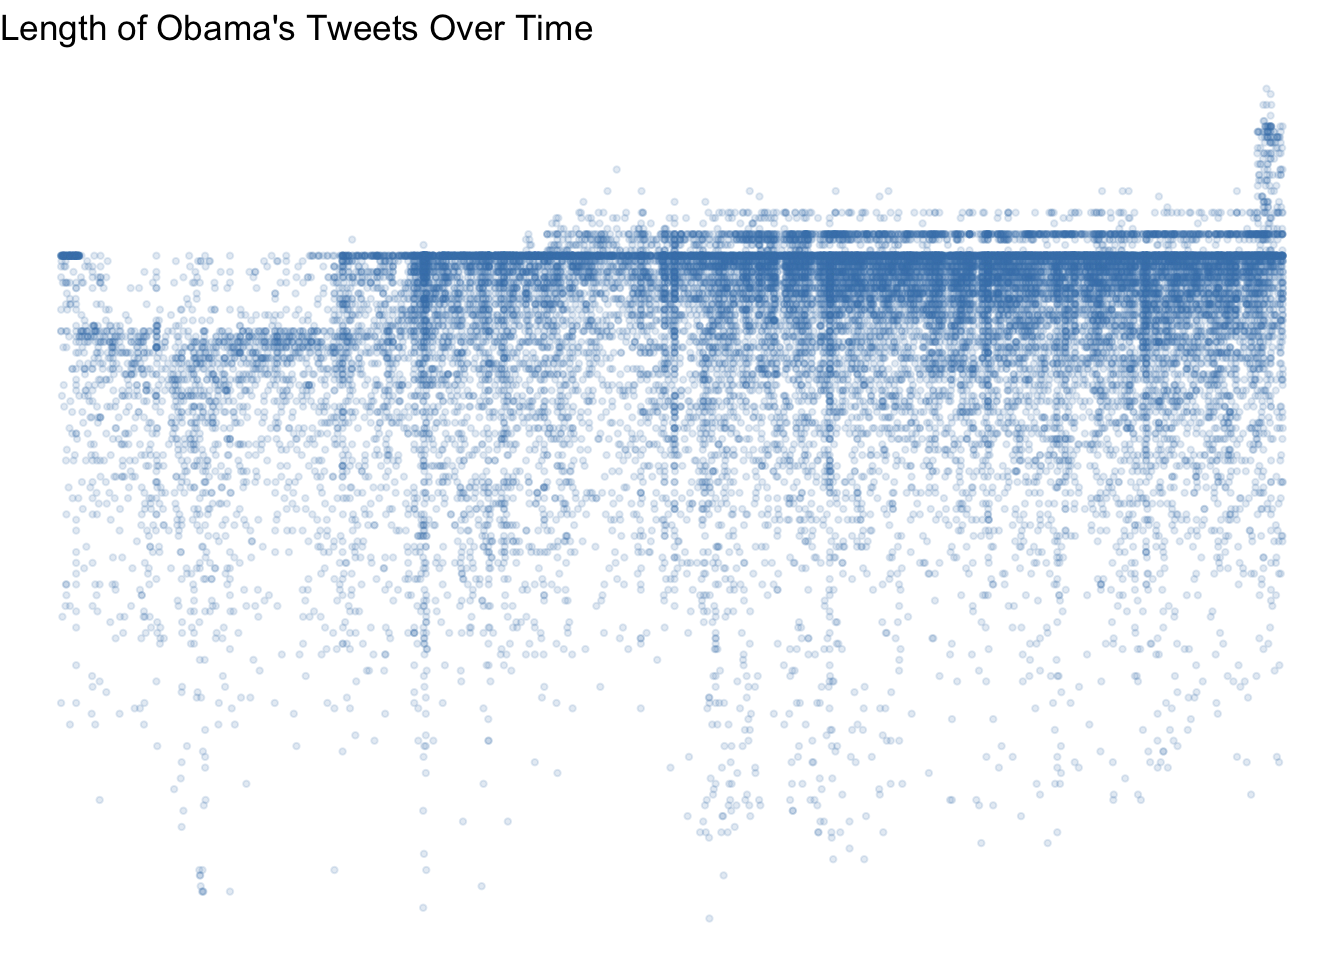
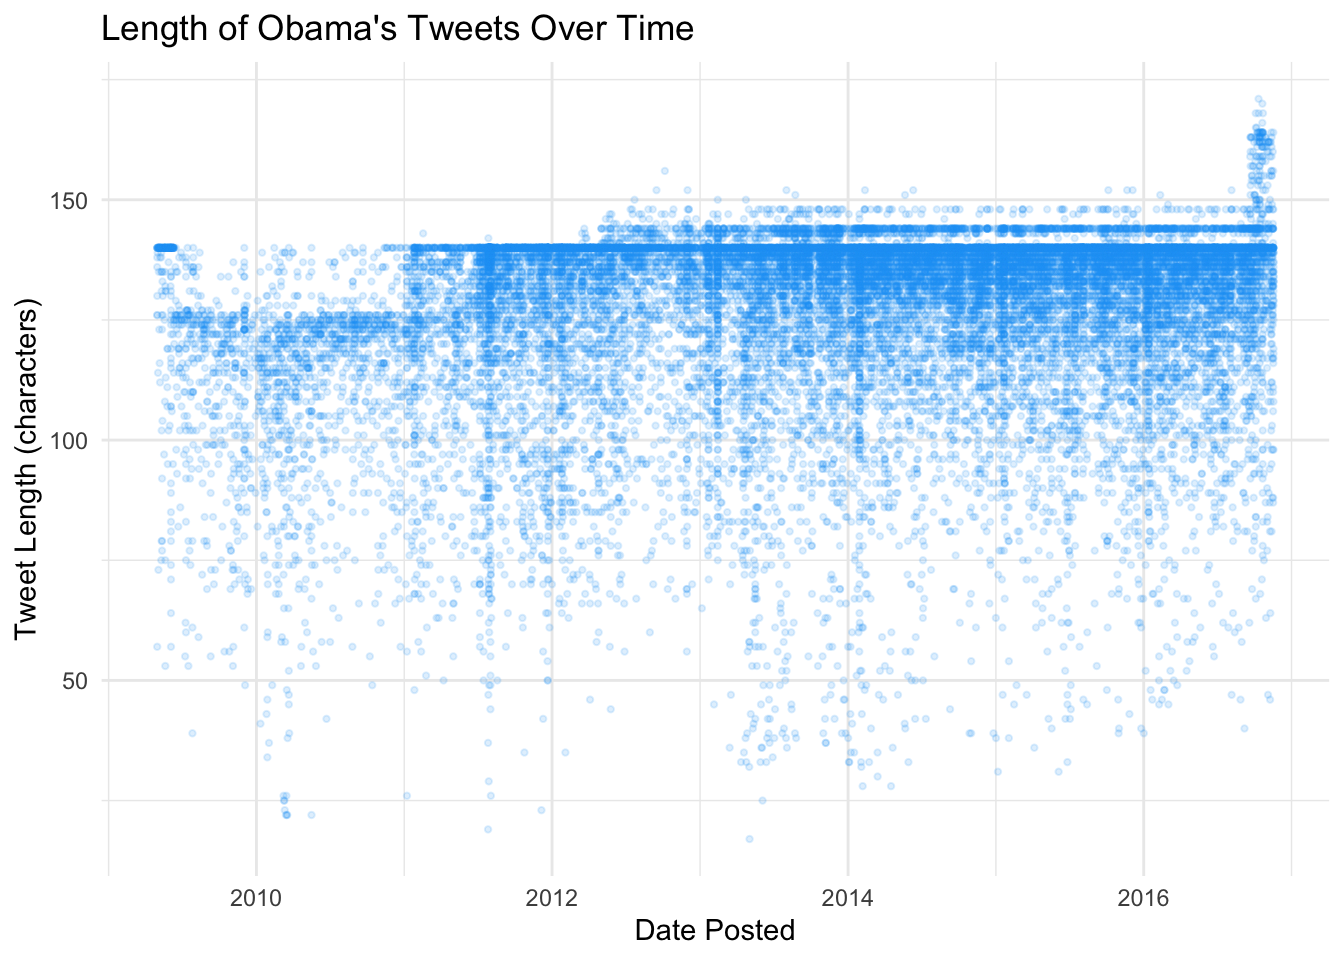
re-render

diff --git a/docs/obama.html b/docs/obama.html
@@ -284,10 +284,10 @@ $ expanded_urls              &lt;chr&gt; "http://snpy.tv/2f3WnrO", "http://snpy.
 <summary>Code</summary>
 <div class="code-copy-outer-scaffold"><div class="sourceCode cell-code" id="cb6"><pre class="sourceCode r code-with-copy"><code class="sourceCode r"><span id="cb6-1"><a href="#cb6-1" aria-hidden="true" tabindex="-1"></a>tweets1 <span class="sc">|&gt;</span> </span>
 <span id="cb6-2"><a href="#cb6-2" aria-hidden="true" tabindex="-1"></a>    <span class="fu">ggplot</span>(<span class="fu">aes</span>(<span class="at">x=</span>timestamp, <span class="at">y=</span>length)) <span class="sc">+</span> </span>
-<span id="cb6-3"><a href="#cb6-3" aria-hidden="true" tabindex="-1"></a>    <span class="fu">geom_point</span>(<span class="at">alpha =</span> <span class="fl">0.15</span>,<span class="at">size=</span><span class="fl">0.8</span>, <span class="at">color =</span> <span class="st">"steelblue"</span>) <span class="sc">+</span></span>
+<span id="cb6-3"><a href="#cb6-3" aria-hidden="true" tabindex="-1"></a>    <span class="fu">geom_point</span>(<span class="at">alpha =</span> <span class="fl">0.15</span>,<span class="at">size=</span><span class="fl">0.8</span>, <span class="at">color =</span> <span class="st">"#1DA1F2"</span>) <span class="sc">+</span></span>
 <span id="cb6-4"><a href="#cb6-4" aria-hidden="true" tabindex="-1"></a>    <span class="fu">labs</span>(<span class="at">title =</span> <span class="st">"Length of Obama's Tweets Over Time"</span>, </span>
 <span id="cb6-5"><a href="#cb6-5" aria-hidden="true" tabindex="-1"></a>            <span class="at">x =</span> <span class="st">"Date Posted"</span>, <span class="at">y =</span> <span class="st">"Tweet Length (characters)"</span>) <span class="sc">+</span></span>
-<span id="cb6-6"><a href="#cb6-6" aria-hidden="true" tabindex="-1"></a>    <span class="fu">theme_void</span>()</span></code></pre></div><button title="Copy to Clipboard" class="code-copy-button"><i class="bi"></i></button></div>
+<span id="cb6-6"><a href="#cb6-6" aria-hidden="true" tabindex="-1"></a>    <span class="fu">theme_minimal</span>()</span></code></pre></div><button title="Copy to Clipboard" class="code-copy-button"><i class="bi"></i></button></div>
 </details>
 <div class="cell-output-display">
 <div>
@@ -300,28 +300,21 @@ $ expanded_urls              &lt;chr&gt; "http://snpy.tv/2f3WnrO", "http://snpy.
 </section>
 <section id="most-common-hashtags" class="level4">
 <h4 class="anchored" data-anchor-id="most-common-hashtags">Most common Hashtags</h4>
-<p>look around fct_reorder plot</p>
-</section>
-<section id="most-mentioned" class="level4">
-<h4 class="anchored" data-anchor-id="most-mentioned">Most Mentioned</h4>
-<p>str_extract</p>
-</section>
-<section id="topics" class="level4">
-<h4 class="anchored" data-anchor-id="topics">Topics</h4>
-<p>str_extract fct_lump</p>
-</section>
-<section id="tweets-per-month-per-year" class="level4">
-<h4 class="anchored" data-anchor-id="tweets-per-month-per-year">tweets per month/ per year</h4>
 <div class="cell">
 <details class="code-fold">
 <summary>Code</summary>
 <div class="code-copy-outer-scaffold"><div class="sourceCode cell-code" id="cb7"><pre class="sourceCode r code-with-copy"><code class="sourceCode r"><span id="cb7-1"><a href="#cb7-1" aria-hidden="true" tabindex="-1"></a>tweets2 <span class="sc">|&gt;</span> </span>
-<span id="cb7-2"><a href="#cb7-2" aria-hidden="true" tabindex="-1"></a>    <span class="fu">mutate</span>(<span class="at">month =</span> <span class="fu">month</span>(timestamp)) <span class="sc">|&gt;</span> </span>
-<span id="cb7-3"><a href="#cb7-3" aria-hidden="true" tabindex="-1"></a>    <span class="fu">group_by</span>(month) <span class="sc">|&gt;</span> </span>
-<span id="cb7-4"><a href="#cb7-4" aria-hidden="true" tabindex="-1"></a>    <span class="fu">summarize</span>(<span class="at">n=</span><span class="fu">n</span>()) <span class="sc">|&gt;</span> </span>
-<span id="cb7-5"><a href="#cb7-5" aria-hidden="true" tabindex="-1"></a>    <span class="fu">ggplot</span>(<span class="fu">aes</span>(<span class="at">x=</span>month,<span class="at">y=</span>n)) <span class="sc">+</span></span>
-<span id="cb7-6"><a href="#cb7-6" aria-hidden="true" tabindex="-1"></a>        <span class="fu">geom_col</span>() <span class="sc">+</span> </span>
-<span id="cb7-7"><a href="#cb7-7" aria-hidden="true" tabindex="-1"></a>        <span class="fu">labs</span>(<span class="at">title =</span> <span class="st">"Obama's Tweets by Month"</span>, <span class="at">x =</span> <span class="st">"Month"</span>, <span class="at">y =</span> <span class="st">"Number of Tweets"</span>) </span></code></pre></div><button title="Copy to Clipboard" class="code-copy-button"><i class="bi"></i></button></div>
+<span id="cb7-2"><a href="#cb7-2" aria-hidden="true" tabindex="-1"></a>    <span class="fu">filter</span>(<span class="fu">is.na</span>(retweeted_status_id), <span class="sc">!</span><span class="fu">str_detect</span>(text, <span class="st">"^RT @"</span>)) <span class="sc">|&gt;</span> </span>
+<span id="cb7-3"><a href="#cb7-3" aria-hidden="true" tabindex="-1"></a>    <span class="fu">mutate</span>(<span class="at">hashtag =</span> <span class="fu">str_extract_all</span>(text_lower, <span class="st">"#</span><span class="sc">\\</span><span class="st">w+"</span>)) <span class="sc">|&gt;</span> </span>
+<span id="cb7-4"><a href="#cb7-4" aria-hidden="true" tabindex="-1"></a>    <span class="fu">unnest</span>(hashtag) <span class="sc">|&gt;</span> </span>
+<span id="cb7-5"><a href="#cb7-5" aria-hidden="true" tabindex="-1"></a>    <span class="fu">filter</span>(<span class="sc">!</span><span class="fu">is.na</span>(hashtag)) <span class="sc">|&gt;</span> </span>
+<span id="cb7-6"><a href="#cb7-6" aria-hidden="true" tabindex="-1"></a>    <span class="fu">group_by</span>(hashtag) <span class="sc">|&gt;</span> </span>
+<span id="cb7-7"><a href="#cb7-7" aria-hidden="true" tabindex="-1"></a>    <span class="fu">summarize</span>(<span class="at">n=</span><span class="fu">n</span>()) <span class="sc">|&gt;</span> </span>
+<span id="cb7-8"><a href="#cb7-8" aria-hidden="true" tabindex="-1"></a>    <span class="fu">arrange</span>(<span class="fu">desc</span>(n)) <span class="sc">|&gt;</span> </span>
+<span id="cb7-9"><a href="#cb7-9" aria-hidden="true" tabindex="-1"></a>    <span class="fu">slice_head</span>(<span class="at">n=</span><span class="dv">10</span>) <span class="sc">|&gt;</span> </span>
+<span id="cb7-10"><a href="#cb7-10" aria-hidden="true" tabindex="-1"></a>    <span class="fu">ggplot</span>(<span class="fu">aes</span>(<span class="at">x=</span>n, <span class="at">y =</span> <span class="fu">fct_reorder</span>(hashtag,n))) <span class="sc">+</span></span>
+<span id="cb7-11"><a href="#cb7-11" aria-hidden="true" tabindex="-1"></a>        <span class="fu">geom_col</span>(<span class="at">fill =</span> <span class="st">"#1DA1F2"</span>) <span class="sc">+</span></span>
+<span id="cb7-12"><a href="#cb7-12" aria-hidden="true" tabindex="-1"></a>        <span class="fu">labs</span>(<span class="at">title =</span> <span class="st">"Top 10 Most Used Hashtags"</span>, <span class="at">x =</span> <span class="cn">NULL</span>, <span class="at">y =</span> <span class="st">"Hashtag"</span>)</span></code></pre></div><button title="Copy to Clipboard" class="code-copy-button"><i class="bi"></i></button></div>
 </details>
 <div class="cell-output-display">
 <div>
@@ -331,7 +324,162 @@ $ expanded_urls              &lt;chr&gt; "http://snpy.tv/2f3WnrO", "http://snpy.
 </div>
 </div>
 </div>
-<p>mutate(year = year(timestamp)) geom_line</p>
+<p>This chart shows the 10 most highly used hashtags by former President Obama in his own Tweets. From this data, we can see that some of the issues he cared about includes climate action, healthcare, and equal opportunity.</p>
+<div class="cell">
+<details class="code-fold">
+<summary>Code</summary>
+<div class="code-copy-outer-scaffold"><div class="sourceCode cell-code" id="cb8"><pre class="sourceCode r code-with-copy"><code class="sourceCode r"><span id="cb8-1"><a href="#cb8-1" aria-hidden="true" tabindex="-1"></a>tweets2 <span class="sc">|&gt;</span> </span>
+<span id="cb8-2"><a href="#cb8-2" aria-hidden="true" tabindex="-1"></a>    <span class="fu">filter</span>(<span class="fu">str_detect</span>(text_lower,<span class="st">"#actonclimate</span><span class="sc">\\</span><span class="st">b"</span>)) <span class="sc">|&gt;</span> </span>
+<span id="cb8-3"><a href="#cb8-3" aria-hidden="true" tabindex="-1"></a>    <span class="fu">mutate</span>(<span class="at">month =</span> <span class="fu">floor_date</span>(timestamp, <span class="st">"month"</span>)) <span class="sc">|&gt;</span> </span>
+<span id="cb8-4"><a href="#cb8-4" aria-hidden="true" tabindex="-1"></a>    <span class="fu">group_by</span>(month) <span class="sc">|&gt;</span> </span>
+<span id="cb8-5"><a href="#cb8-5" aria-hidden="true" tabindex="-1"></a>    <span class="fu">summarize</span>(<span class="at">n=</span><span class="fu">n</span>()) <span class="sc">|&gt;</span> </span>
+<span id="cb8-6"><a href="#cb8-6" aria-hidden="true" tabindex="-1"></a>    <span class="fu">ggplot</span>(<span class="fu">aes</span>(<span class="at">x=</span>month, <span class="at">y =</span> n)) <span class="sc">+</span></span>
+<span id="cb8-7"><a href="#cb8-7" aria-hidden="true" tabindex="-1"></a>        <span class="fu">geom_line</span>(<span class="at">color =</span> <span class="st">"#1DA1F2"</span>) <span class="sc">+</span></span>
+<span id="cb8-8"><a href="#cb8-8" aria-hidden="true" tabindex="-1"></a>        <span class="fu">labs</span>(<span class="at">title =</span> <span class="st">"Uses of #ActOnClimate Overtime"</span>, <span class="at">x =</span> <span class="st">"Year"</span>, <span class="at">y =</span> <span class="st">"Number of Uses"</span>)</span></code></pre></div><button title="Copy to Clipboard" class="code-copy-button"><i class="bi"></i></button></div>
+</details>
+<div class="cell-output-display">
+<div>
+<figure class="figure">
+<p><img src="obama_files/figure-html/unnamed-chunk-7-1.png" class="img-fluid figure-img" width="672"></p>
+</figure>
+</div>
+</div>
+</div>
+<p>This graph plots the usage of #ActOnClimate overtime in both Obama’s own tweets and his retweets. The hashtag was introduced in the middle of 2013, peaking in usage towards the middle of 2014. It was used constantly in 2015 and dropped in usage towards the end of his second term.</p>
+</section>
+<section id="most-mentioned" class="level4">
+<h4 class="anchored" data-anchor-id="most-mentioned">Most Mentioned</h4>
+<p>str_extract</p>
+</section>
+<section id="topics" class="level4">
+<h4 class="anchored" data-anchor-id="topics">Topics</h4>
+<p>str_detect(“health”) str_detect(“econom”) str_detect(“health”) fct_lump</p>
+</section>
+<section id="tweets-per-month-per-year" class="level4">
+<h4 class="anchored" data-anchor-id="tweets-per-month-per-year">tweets per month/ per year</h4>
+<div class="cell">
+<details class="code-fold">
+<summary>Code</summary>
+<div class="code-copy-outer-scaffold"><div class="sourceCode cell-code" id="cb9"><pre class="sourceCode r code-with-copy"><code class="sourceCode r"><span id="cb9-1"><a href="#cb9-1" aria-hidden="true" tabindex="-1"></a>tweets2 <span class="sc">|&gt;</span> </span>
+<span id="cb9-2"><a href="#cb9-2" aria-hidden="true" tabindex="-1"></a>    <span class="fu">mutate</span>(<span class="at">month =</span> <span class="fu">month</span>(timestamp, <span class="at">label =</span><span class="cn">TRUE</span>)) <span class="sc">|&gt;</span> </span>
+<span id="cb9-3"><a href="#cb9-3" aria-hidden="true" tabindex="-1"></a>    <span class="fu">group_by</span>(month) <span class="sc">|&gt;</span> </span>
+<span id="cb9-4"><a href="#cb9-4" aria-hidden="true" tabindex="-1"></a>    <span class="fu">summarize</span>(<span class="at">n=</span><span class="fu">n</span>()) <span class="sc">|&gt;</span> </span>
+<span id="cb9-5"><a href="#cb9-5" aria-hidden="true" tabindex="-1"></a>    <span class="fu">ggplot</span>(<span class="fu">aes</span>(<span class="at">x=</span>month,<span class="at">y=</span>n)) <span class="sc">+</span></span>
+<span id="cb9-6"><a href="#cb9-6" aria-hidden="true" tabindex="-1"></a>        <span class="fu">geom_col</span>(<span class="at">fill =</span> <span class="st">"#1DA1F2"</span>) <span class="sc">+</span> </span>
+<span id="cb9-7"><a href="#cb9-7" aria-hidden="true" tabindex="-1"></a>        <span class="fu">labs</span>(<span class="at">title =</span> <span class="st">"Obama's Tweets by Month"</span>, <span class="at">x =</span> <span class="st">"Month"</span>, <span class="at">y =</span> <span class="st">"Number of Tweets"</span>) </span></code></pre></div><button title="Copy to Clipboard" class="code-copy-button"><i class="bi"></i></button></div>
+</details>
+<div class="cell-output-display">
+<div>
+<figure class="figure">
+<p><img src="obama_files/figure-html/unnamed-chunk-8-1.png" class="img-fluid figure-img" width="672"></p>
+</figure>
+</div>
+</div>
+</div>
+<p>This chart shows Obama’s Tweets per month over the span of his time running the POTUS account. He has tweeted the most in January</p>
+<div class="cell">
+<details class="code-fold">
+<summary>Code</summary>
+<div class="code-copy-outer-scaffold"><div class="sourceCode cell-code" id="cb10"><pre class="sourceCode r code-with-copy"><code class="sourceCode r"><span id="cb10-1"><a href="#cb10-1" aria-hidden="true" tabindex="-1"></a>tweets2 <span class="sc">|&gt;</span> </span>
+<span id="cb10-2"><a href="#cb10-2" aria-hidden="true" tabindex="-1"></a>    <span class="fu">mutate</span>(<span class="at">year =</span> <span class="fu">year</span>(timestamp)) <span class="sc">|&gt;</span> </span>
+<span id="cb10-3"><a href="#cb10-3" aria-hidden="true" tabindex="-1"></a>    <span class="fu">group_by</span>(year) <span class="sc">|&gt;</span> </span>
+<span id="cb10-4"><a href="#cb10-4" aria-hidden="true" tabindex="-1"></a>    <span class="fu">summarize</span>(<span class="at">n=</span><span class="fu">n</span>()) <span class="sc">|&gt;</span> </span>
+<span id="cb10-5"><a href="#cb10-5" aria-hidden="true" tabindex="-1"></a>    <span class="fu">ggplot</span>(<span class="fu">aes</span>(<span class="at">x=</span>year,<span class="at">y=</span>n)) <span class="sc">+</span></span>
+<span id="cb10-6"><a href="#cb10-6" aria-hidden="true" tabindex="-1"></a>        <span class="fu">geom_line</span>(<span class="at">color =</span> <span class="st">"#1DA1F2"</span> ) <span class="sc">+</span> </span>
+<span id="cb10-7"><a href="#cb10-7" aria-hidden="true" tabindex="-1"></a>        <span class="fu">scale_x_continuous</span>(<span class="at">breaks =</span> <span class="dv">2009</span><span class="sc">:</span><span class="dv">2016</span>) <span class="sc">+</span></span>
+<span id="cb10-8"><a href="#cb10-8" aria-hidden="true" tabindex="-1"></a>        <span class="fu">labs</span>(<span class="at">title =</span> <span class="st">"Obama's Tweets Over the Years"</span>, <span class="at">x =</span> <span class="st">"Year"</span>, <span class="at">y =</span> <span class="st">"Number of Tweets"</span>) </span></code></pre></div><button title="Copy to Clipboard" class="code-copy-button"><i class="bi"></i></button></div>
+</details>
+<div class="cell-output-display">
+<div>
+<figure class="figure">
+<p><img src="obama_files/figure-html/unnamed-chunk-9-1.png" class="img-fluid figure-img" width="672"></p>
+</figure>
+</div>
+</div>
+</div>
+<div class="cell">
+<details class="code-fold">
+<summary>Code</summary>
+<div class="code-copy-outer-scaffold"><div class="sourceCode cell-code" id="cb11"><pre class="sourceCode r code-with-copy"><code class="sourceCode r"><span id="cb11-1"><a href="#cb11-1" aria-hidden="true" tabindex="-1"></a>tweets2 <span class="sc">|&gt;</span></span>
+<span id="cb11-2"><a href="#cb11-2" aria-hidden="true" tabindex="-1"></a>    <span class="fu">mutate</span>(<span class="at">date =</span> <span class="fu">as_date</span>(timestamp)) <span class="sc">|&gt;</span> </span>
+<span id="cb11-3"><a href="#cb11-3" aria-hidden="true" tabindex="-1"></a>    <span class="fu">group_by</span>(date) <span class="sc">|&gt;</span> </span>
+<span id="cb11-4"><a href="#cb11-4" aria-hidden="true" tabindex="-1"></a>    <span class="fu">summarize</span>(<span class="at">n=</span><span class="fu">n</span>()) <span class="sc">|&gt;</span> </span>
+<span id="cb11-5"><a href="#cb11-5" aria-hidden="true" tabindex="-1"></a>    <span class="fu">ggplot</span>(<span class="fu">aes</span>(<span class="at">x=</span>date,<span class="at">y=</span>n)) <span class="sc">+</span></span>
+<span id="cb11-6"><a href="#cb11-6" aria-hidden="true" tabindex="-1"></a>        <span class="fu">geom_col</span>() <span class="sc">+</span> </span>
+<span id="cb11-7"><a href="#cb11-7" aria-hidden="true" tabindex="-1"></a>        <span class="fu">labs</span>(<span class="at">title =</span> <span class="st">"Obama's Tweets by Date"</span>, <span class="at">x =</span> <span class="st">"Date"</span>, <span class="at">y =</span> <span class="st">"Number of Tweets"</span>) </span></code></pre></div><button title="Copy to Clipboard" class="code-copy-button"><i class="bi"></i></button></div>
+</details>
+<div class="cell-output-display">
+<div>
+<figure class="figure">
+<p><img src="obama_files/figure-html/unnamed-chunk-10-1.png" class="img-fluid figure-img" width="672"></p>
+</figure>
+</div>
+</div>
+</div>
+<p>This graph shows Obama’s Tweets over his years in office. It shows that he used his Twitter more in his second term from 2013-2017, and used it the most in 2014 and 2015. This surge in usage in 2014 could be due to his decleration of the year as a “year of action,” in which he enacted many executive orders and policy initiatives to address many issues of the time.</p>
+<div class="cell">
+<details class="code-fold">
+<summary>Code</summary>
+<div class="code-copy-outer-scaffold"><div class="sourceCode cell-code" id="cb12"><pre class="sourceCode r code-with-copy"><code class="sourceCode r"><span id="cb12-1"><a href="#cb12-1" aria-hidden="true" tabindex="-1"></a>tweets2 <span class="sc">|&gt;</span> </span>
+<span id="cb12-2"><a href="#cb12-2" aria-hidden="true" tabindex="-1"></a>  <span class="fu">mutate</span>(<span class="at">date =</span> <span class="fu">as_date</span>(timestamp)) <span class="sc">|&gt;</span> </span>
+<span id="cb12-3"><a href="#cb12-3" aria-hidden="true" tabindex="-1"></a>  <span class="fu">count</span>(date) <span class="sc">|&gt;</span> </span>
+<span id="cb12-4"><a href="#cb12-4" aria-hidden="true" tabindex="-1"></a>  <span class="fu">ggplot</span>(<span class="fu">aes</span>(<span class="at">x =</span> date, <span class="at">y =</span> n)) <span class="sc">+</span></span>
+<span id="cb12-5"><a href="#cb12-5" aria-hidden="true" tabindex="-1"></a>  <span class="fu">geom_line</span>() <span class="sc">+</span></span>
+<span id="cb12-6"><a href="#cb12-6" aria-hidden="true" tabindex="-1"></a>  <span class="fu">scale_x_date</span>(<span class="at">date_breaks =</span> <span class="st">"1 year"</span>, <span class="at">date_labels =</span> <span class="st">"%Y"</span>) <span class="sc">+</span></span>
+<span id="cb12-7"><a href="#cb12-7" aria-hidden="true" tabindex="-1"></a>  <span class="fu">labs</span>(<span class="at">title =</span> <span class="st">"Obama's Tweets per Day"</span>,</span>
+<span id="cb12-8"><a href="#cb12-8" aria-hidden="true" tabindex="-1"></a>       <span class="at">x =</span> <span class="st">"Date"</span>,</span>
+<span id="cb12-9"><a href="#cb12-9" aria-hidden="true" tabindex="-1"></a>       <span class="at">y =</span> <span class="st">"Number of tweets"</span>)</span></code></pre></div><button title="Copy to Clipboard" class="code-copy-button"><i class="bi"></i></button></div>
+</details>
+<div class="cell-output-display">
+<div>
+<figure class="figure">
+<p><img src="obama_files/figure-html/unnamed-chunk-11-1.png" class="img-fluid figure-img" width="672"></p>
+</figure>
+</div>
+</div>
+</div>
+<div class="cell">
+<details class="code-fold">
+<summary>Code</summary>
+<div class="code-copy-outer-scaffold"><div class="sourceCode cell-code" id="cb13"><pre class="sourceCode r code-with-copy"><code class="sourceCode r"><span id="cb13-1"><a href="#cb13-1" aria-hidden="true" tabindex="-1"></a>tweets2 <span class="sc">|&gt;</span></span>
+<span id="cb13-2"><a href="#cb13-2" aria-hidden="true" tabindex="-1"></a>  <span class="fu">mutate</span>(<span class="at">month =</span> <span class="fu">floor_date</span>(<span class="fu">as_date</span>(timestamp), <span class="st">"month"</span>)) <span class="sc">|&gt;</span> </span>
+<span id="cb13-3"><a href="#cb13-3" aria-hidden="true" tabindex="-1"></a>  <span class="fu">count</span>(month) <span class="sc">|&gt;</span> </span>
+<span id="cb13-4"><a href="#cb13-4" aria-hidden="true" tabindex="-1"></a>  <span class="fu">ggplot</span>(<span class="fu">aes</span>(<span class="at">x =</span> month, <span class="at">y =</span> n)) <span class="sc">+</span></span>
+<span id="cb13-5"><a href="#cb13-5" aria-hidden="true" tabindex="-1"></a>  <span class="fu">geom_col</span>(<span class="at">fill =</span> <span class="st">"steelblue"</span>) <span class="sc">+</span> </span>
+<span id="cb13-6"><a href="#cb13-6" aria-hidden="true" tabindex="-1"></a>  <span class="fu">scale_x_date</span>(<span class="at">date_breaks =</span> <span class="st">"1 year"</span>, <span class="at">date_labels =</span> <span class="st">"%Y"</span>) <span class="sc">+</span></span>
+<span id="cb13-7"><a href="#cb13-7" aria-hidden="true" tabindex="-1"></a>  <span class="fu">labs</span>(<span class="at">title =</span> <span class="st">"Obama's Tweets by Month"</span>, </span>
+<span id="cb13-8"><a href="#cb13-8" aria-hidden="true" tabindex="-1"></a>       <span class="at">x =</span> <span class="st">"Year"</span>, </span>
+<span id="cb13-9"><a href="#cb13-9" aria-hidden="true" tabindex="-1"></a>       <span class="at">y =</span> <span class="st">"Number of Tweets"</span>) <span class="sc">+</span></span>
+<span id="cb13-10"><a href="#cb13-10" aria-hidden="true" tabindex="-1"></a>  <span class="fu">theme_minimal</span>()</span></code></pre></div><button title="Copy to Clipboard" class="code-copy-button"><i class="bi"></i></button></div>
+</details>
+<div class="cell-output-display">
+<div>
+<figure class="figure">
+<p><img src="obama_files/figure-html/unnamed-chunk-12-1.png" class="img-fluid figure-img" width="672"></p>
+</figure>
+</div>
+</div>
+<details class="code-fold">
+<summary>Code</summary>
+<div class="code-copy-outer-scaffold"><div class="sourceCode cell-code" id="cb14"><pre class="sourceCode r code-with-copy"><code class="sourceCode r"><span id="cb14-1"><a href="#cb14-1" aria-hidden="true" tabindex="-1"></a>tweets2 <span class="sc">|&gt;</span></span>
+<span id="cb14-2"><a href="#cb14-2" aria-hidden="true" tabindex="-1"></a>  <span class="fu">mutate</span>(<span class="at">date =</span> <span class="fu">as_date</span>(timestamp)) <span class="sc">|&gt;</span> </span>
+<span id="cb14-3"><a href="#cb14-3" aria-hidden="true" tabindex="-1"></a>  <span class="fu">count</span>(date) <span class="sc">|&gt;</span> </span>
+<span id="cb14-4"><a href="#cb14-4" aria-hidden="true" tabindex="-1"></a>  <span class="fu">ggplot</span>(<span class="fu">aes</span>(<span class="at">x =</span> date, <span class="at">y =</span> n)) <span class="sc">+</span></span>
+<span id="cb14-5"><a href="#cb14-5" aria-hidden="true" tabindex="-1"></a>  <span class="fu">geom_col</span>(<span class="at">fill =</span> <span class="st">"steelblue"</span>, <span class="at">width =</span> <span class="dv">1</span>) <span class="sc">+</span> </span>
+<span id="cb14-6"><a href="#cb14-6" aria-hidden="true" tabindex="-1"></a>  <span class="fu">scale_x_date</span>(<span class="at">date_breaks =</span> <span class="st">"1 year"</span>, <span class="at">date_labels =</span> <span class="st">"%Y"</span>) <span class="sc">+</span></span>
+<span id="cb14-7"><a href="#cb14-7" aria-hidden="true" tabindex="-1"></a>  <span class="fu">labs</span>(<span class="at">title =</span> <span class="st">"Obama's Tweets by Date"</span>, </span>
+<span id="cb14-8"><a href="#cb14-8" aria-hidden="true" tabindex="-1"></a>       <span class="at">x =</span> <span class="st">"Year"</span>, </span>
+<span id="cb14-9"><a href="#cb14-9" aria-hidden="true" tabindex="-1"></a>       <span class="at">y =</span> <span class="st">"Number of Tweets"</span>) <span class="sc">+</span></span>
+<span id="cb14-10"><a href="#cb14-10" aria-hidden="true" tabindex="-1"></a>  <span class="fu">theme_minimal</span>()</span></code></pre></div><button title="Copy to Clipboard" class="code-copy-button"><i class="bi"></i></button></div>
+</details>
+<div class="cell-output-display">
+<div>
+<figure class="figure">
+<p><img src="obama_files/figure-html/unnamed-chunk-12-2.png" class="img-fluid figure-img" width="672"></p>
+</figure>
+</div>
+</div>
+</div>
 
 
 </section>
